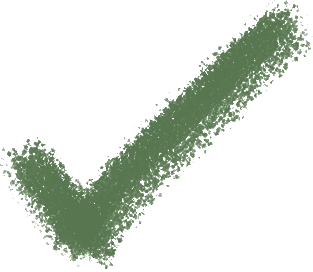
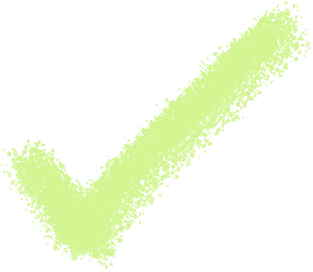
Revamp theme/colors, update assets, bump psycopg2
Replace psycopg2 with psycopg2-binary>=2.9.10 in backend requirements. Revamp frontend theme and global color variables (new palette) and update related CSS (themes.css, global.css, home, checkbox, loading screen, login) to use the new vars and adjust hover/box-shadow/typography. Swap footer image references to negative/white variants and update partner logo assets (added logos_parceiros_branco_bg.png, replaced logos_parceiros_branco.png) and tracker-checkmark.png. These changes unify the visual identity and ensure the backend uses the binary psycopg2 package for easier installs.

Changed region(s): [[0.0, 0.0, 1.0, 1.0]]

diff --git a/src/frontend/study-tracker/app/routes/log-in/login.module.css b/src/frontend/study-tracker/app/routes/log-in/login.module.css
@@ -5,7 +5,7 @@
     min-height: 100vh;
     display: flex;
     flex-direction: column;
-    color: #333;
+    color: var(--text-color-2);
     font-family: var(--font-family1), sans-serif;
 }
 
@@ -37,7 +37,6 @@
     height: 80px;
     object-fit: contain;
     margin-bottom: 1.5rem;
-    /* Podes manter uma pequena animação de flutuar se quiseres, ou remover */
     animation: float 6s ease-in-out infinite; 
 }
 
@@ -51,19 +50,19 @@
     font-size: 2rem;
     font-weight: bold;
     margin-bottom: 0.5rem;
-    color: #111; /* Quase preto */
+    color: var(--text-color-2);
 }
 
 .subtitle {
     font-size: 1rem;
-    color: #666; /* Cinza intermédio */
+    color: var(--text-color-2);
     margin-bottom: 2.5rem;
     line-height: 1.5;
 }
 
 .actionButton {
-    background: var(--color-2);
-    color: white;
+    background: var(--color-3);
+    color: var(--text-color-2);
     font-weight: bold;
     padding: 1.2rem 1rem;
     border-radius: 0.5rem;
@@ -73,19 +72,19 @@
     transition: all 0.2s ease-in-out;
     width: 100%;
     text-transform: uppercase;
-    box-shadow: 0 4px 6px var(--color-1);
+    box-shadow: 0 4px 6px rgba(0, 0, 0, 0.2);
     display: inline-block;
 }
 
 .actionButton:hover {
-    background: var(--color-3);
+    filter: brightness(0.9);
     transform: translateY(-2px);
-    box-shadow: 0 8px 12px -3px rgba(37, 99, 235, 0.3);
+    box-shadow: 0 8px 12px -3px rgba(0, 0, 0, 0.3);
 }
 
 .helperText {
     font-size: 0.85rem;
-    color: #888;
+    color: var(--color-2);
     margin-top: 1.5rem;
 }
 
@@ -102,6 +101,6 @@
     transform: translateY(0);
   }
   50% {
-    transform: translateY(-15px); /* Sobe 15 pixeis a meio do tempo */
+    transform: translateY(-15px);
   }
 }

diff --git a/src/frontend/study-tracker/app/components/LoadingScreen/loadingScreen.module.css b/src/frontend/study-tracker/app/components/LoadingScreen/loadingScreen.module.css
@@ -55,14 +55,15 @@
 }
 
 .aceText {
-    font-size: 3.5rem;
     color: var(--color-2);
-    font-weight: 900;
 }
 
 .demicText {
-    font-size: 3rem;
-    color: var(--text-color-1);
+    color: var(--text-color-2);
+}
+
+.trackerText {
+    color: var(--text-color-2);
 }
 
 .trackerAndCheckboxContainer {
@@ -70,9 +71,4 @@
     display: flex;
     align-items: center;
     justify-content: end;
-}
-
-.trackerText {
-    font-size: 2rem;
-    color: var(--text-color-1);
 }

diff --git a/src/frontend/study-tracker/app/global.css b/src/frontend/study-tracker/app/global.css
@@ -4,14 +4,14 @@
 @import url("https://fonts.googleapis.com/css2?family=Chakra+Petch:ital,wght@0,300;0,400;0,500;0,600;0,700;1,300;1,400;1,500;1,600;1,700&display=swap");
 
 :root {
-  --color-1: #f9deb9;
-  --color-2: #592e25;
-  --color-3: #703f3a;
-  --color-4: #587750;
-  --color-5: #2e3192;
+  --color-1: #BD1466; /* Cor principal */
+  --color-2: #D5FC81; /* Verde-Lima */
+  --color-3: #990553; /* Cor da caixa do visto */
+  --color-4: #ffd900; 
+  --color-5: #0dff00;
 
-  --color-2-hover: rgba(89, 46, 37, 0.6);
-  --color-4-hover: rgba(88, 119, 80, 0.6);
+  --color-2-hover: rgba(213, 252, 129, 0.6);
+  --color-4-hover: rgba(213, 252, 129, 0.6);
 
   --color-event-fallback: var(--color-3);
 

diff --git a/src/frontend/study-tracker/app/themes.css b/src/frontend/study-tracker/app/themes.css
@@ -1,9 +1,8 @@
-
 .defaultTheme, .beigeTheme {
-    --color-1: #f9deb9;
-    --color-2: #592e25;
-    --color-3: #703f3a;
-    --color-4: #587750;
+    --color-1: #BD1466;
+    --color-2: #D5FC81;
+    --color-3: #990553;
+    --color-4: #D5FC81;
 
     --text-color-1: #000000;
     --text-color-2: #ffffff;

diff --git a/src/frontend/study-tracker/app/components/Footer/Footer.tsx b/src/frontend/study-tracker/app/components/Footer/Footer.tsx
@@ -11,17 +11,17 @@ export function Footer({
   return (
     <footer className={styles.footer} aria-hidden={ariaHidden}>
       <img
-        src={"./ulisboa_horizontal_logo_positive.png"}
+        src={"./ulisboa_horizontal_logo_negative.png"}
         alt={t("common:ulisboa_logo")}
         className={styles.leftSide}
       />
 
       <div className={styles.middleSide}>
-        <img src={"./logos_parceiros_preto.png"} alt="Parceiros" />
+        <img src={"./logos_parceiros_branco.png"} alt="Parceiros" />
       </div>
 
       <img
-        src={"./sucesso_logo_positive.png"}
+        src={"./sucesso_logo_negative.png"}
         alt={t("common:sucesso_academico_ulisboa_logo")}
         className={styles.rightSide}
       />

diff --git a/src/frontend/home/app/home.module.css b/src/frontend/home/app/home.module.css
@@ -244,7 +244,7 @@
             background-color: transparent;
 
             border-radius: 5px;
-            border: 4px solid #592e25;
+            border: 4px solid var(--color-3);
 
             position: relative;
 

diff --git a/src/frontend/study-tracker/app/components/Checkbox/checkbox.module.css b/src/frontend/study-tracker/app/components/Checkbox/checkbox.module.css
@@ -5,7 +5,7 @@
   background-color: transparent;
 
   border-radius: 5px;
-  border: 4px solid var(--color-2);
+  border: 4px solid var(--color-3);
 
   position: relative;
 }